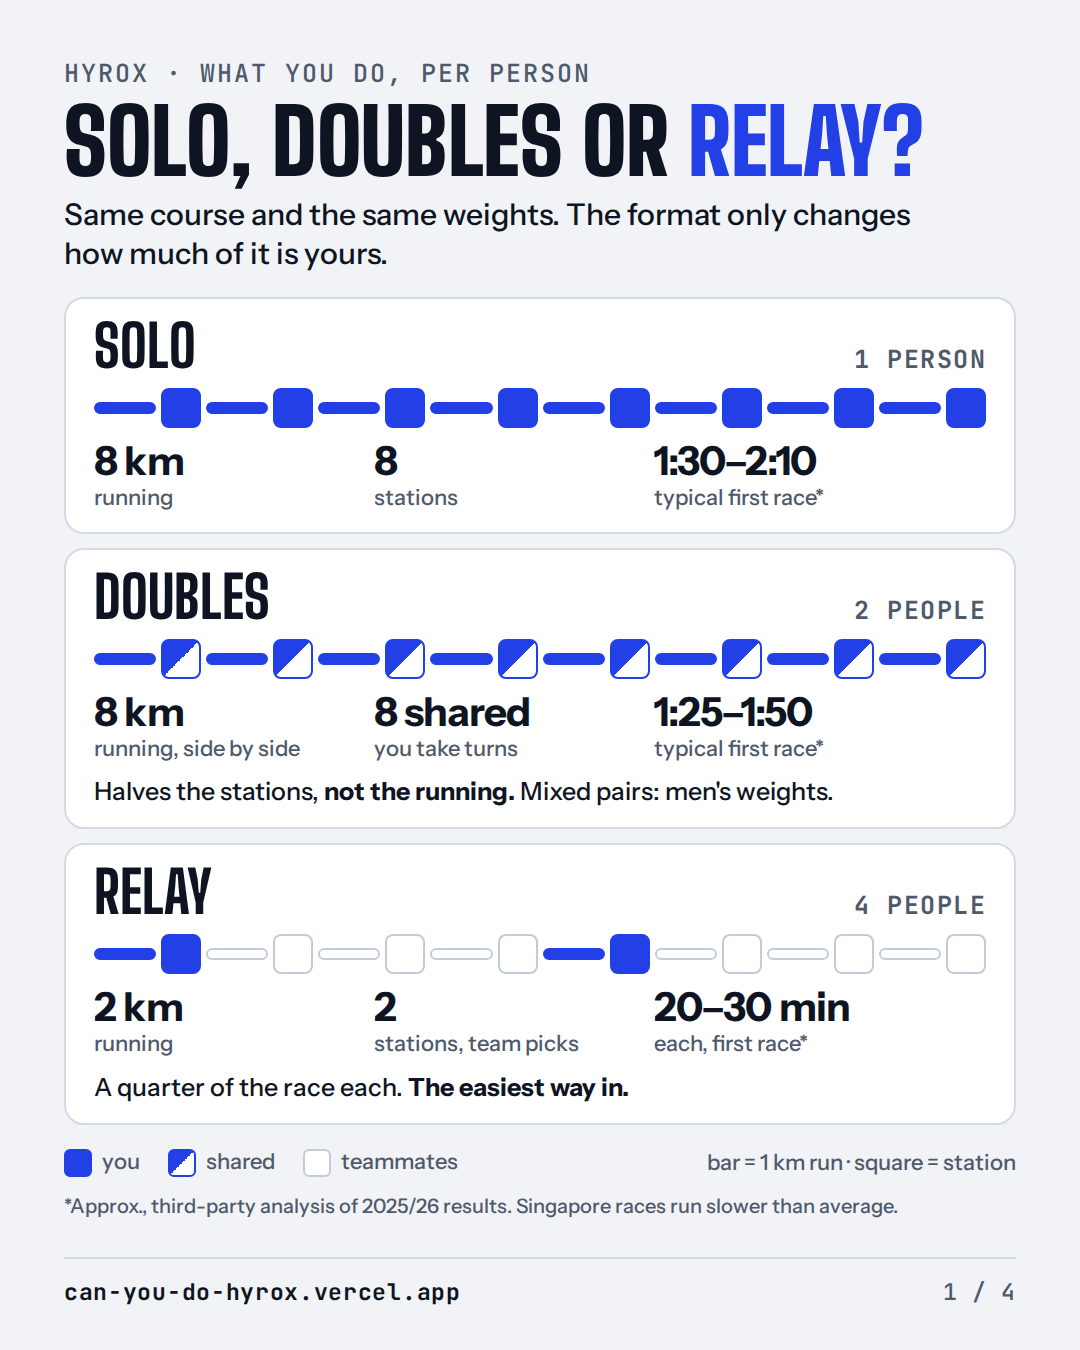
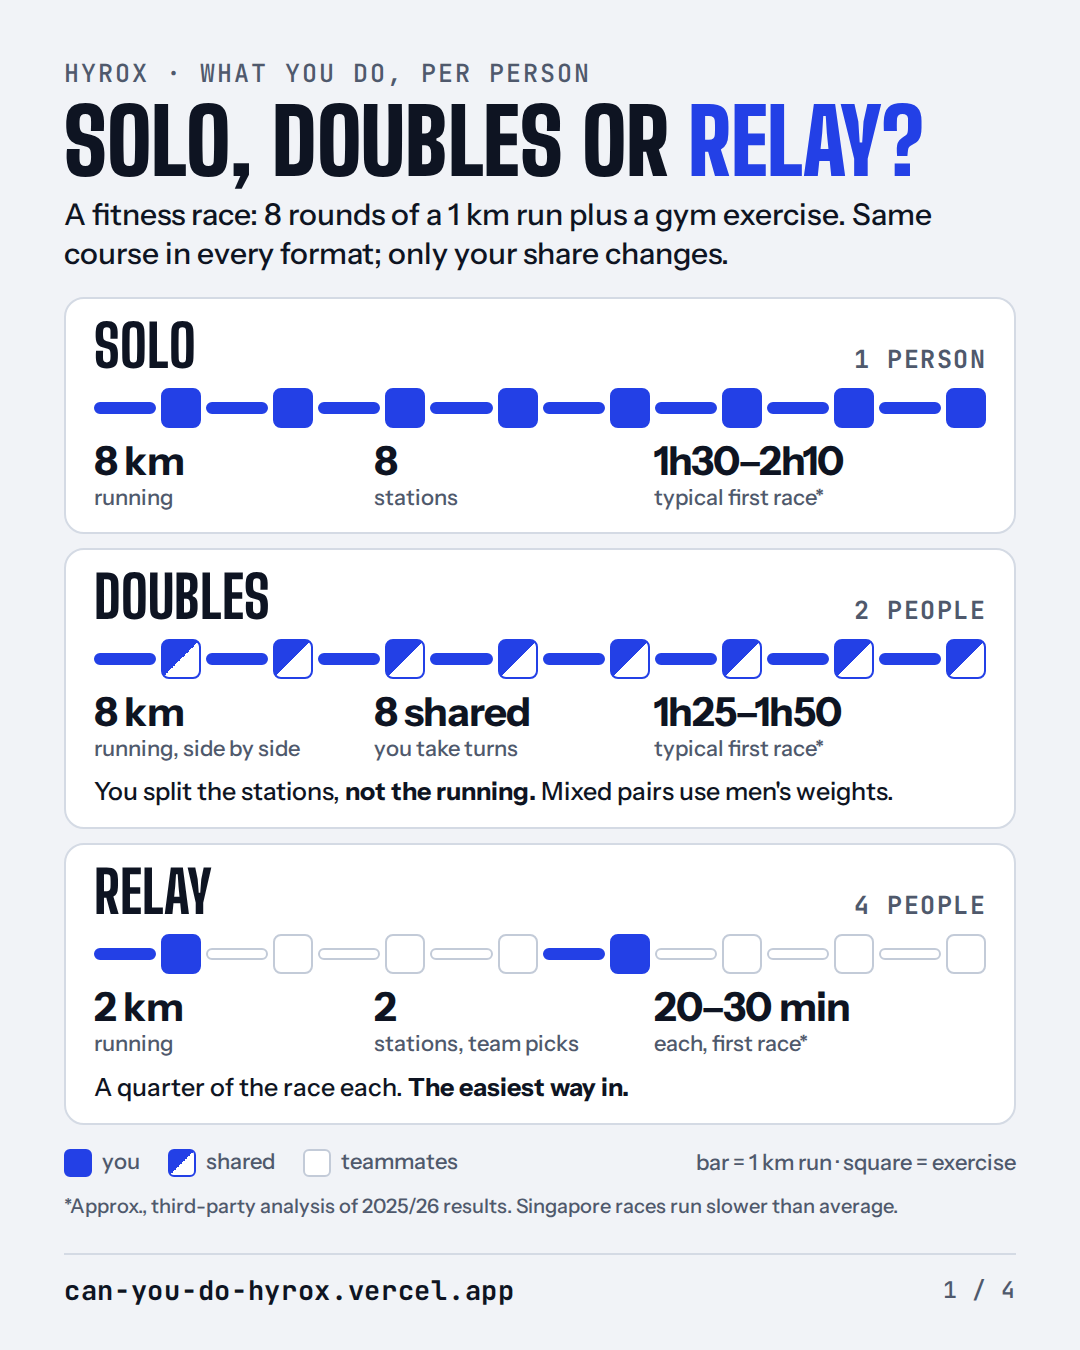
Make share cards clearer for newcomers
Card 1 now says what HYROX is, SkiErg and row are explained, labels are
friendlier (Beginner, Fittest), times read as 1h30 not 1:30, and the
weights wording no longer contradicts the mixed-doubles rule. Share text
explains HYROX in one line.

Claude-Session: https://claude.ai/code/session_018ZDwcHSyeBTy9PunRMkirw

diff --git a/index.html b/index.html
@@ -572,19 +572,19 @@ details.answers summary{cursor:pointer;font-weight:600;width:max-content;max-wid
     <div class="block-head">
       <p class="eyebrow">Solo, pair or team · per person</p>
       <h2 id="formats-title">Pick how you race</h2>
-      <p>Same course and the same weights in every format. What changes is how much of the race is yours.</p>
+      <p>Same course in every format. What changes is how much of the race is yours.</p>
     </div>
     <div class="fmt-rows">
       <article class="fmt">
         <div class="fmt-top"><h3>Solo</h3><span class="who">1 person</span></div>
         <div class="mstrip" aria-hidden="true"><i class="r you"></i><i class="s you"></i><i class="r you"></i><i class="s you"></i><i class="r you"></i><i class="s you"></i><i class="r you"></i><i class="s you"></i><i class="r you"></i><i class="s you"></i><i class="r you"></i><i class="s you"></i><i class="r you"></i><i class="s you"></i><i class="r you"></i><i class="s you"></i></div>
-        <dl class="fmt-stats"><div><dt>Running</dt><dd>8 km</dd></div><div><dt>Stations</dt><dd>All 8</dd></div><div><dt>Typical first race*</dt><dd>1:30–2:10</dd></div></dl>
+        <dl class="fmt-stats"><div><dt>Running</dt><dd>8 km</dd></div><div><dt>Stations</dt><dd>All 8</dd></div><div><dt>Typical first race*</dt><dd>1h30–2h10</dd></div></dl>
         <p>Everything is yours, at the weights above.</p>
       </article>
       <article class="fmt">
         <div class="fmt-top"><h3>Doubles</h3><span class="who">2 people</span></div>
         <div class="mstrip" aria-hidden="true"><i class="r you"></i><i class="s half"></i><i class="r you"></i><i class="s half"></i><i class="r you"></i><i class="s half"></i><i class="r you"></i><i class="s half"></i><i class="r you"></i><i class="s half"></i><i class="r you"></i><i class="s half"></i><i class="r you"></i><i class="s half"></i><i class="r you"></i><i class="s half"></i></div>
-        <dl class="fmt-stats"><div><dt>Running, side by side</dt><dd>8 km</dd></div><div><dt>Stations, taking turns</dt><dd>All 8</dd></div><div><dt>Typical first race*</dt><dd>1:25–1:50</dd></div></dl>
+        <dl class="fmt-stats"><div><dt>Running, side by side</dt><dd>8 km</dd></div><div><dt>Stations, taking turns</dt><dd>All 8</dd></div><div><dt>Typical first race*</dt><dd>1h25–1h50</dd></div></dl>
         <p>Halves the station work, <b>not the running</b>: you run every kilometre side by side, so it's nowhere near half the time. One of you works a station while the other rests. Mixed pairs use the men's weights.</p>
       </article>
       <article class="fmt pick">
@@ -594,7 +594,7 @@ details.answers summary{cursor:pointer;font-weight:600;width:max-content;max-wid
         <p>Each person runs 2 × 1 km and does 2 stations, and the team decides who does which. Only one of you works at a time.</p>
       </article>
     </div>
-    <p class="fmt-legend" aria-hidden="true"><span><i class="you"></i>you</span><span><i class="half"></i>shared</span><span><i></i>teammates</span><span>bar = 1 km run, square = station</span></p>
+    <p class="fmt-legend" aria-hidden="true"><span><i class="you"></i>you</span><span><i class="half"></i>shared</span><span><i></i>teammates</span><span>bar = 1 km run, square = exercise station</span></p>
     <p class="small-note">*Approximate, from third-party analysis of 2025/26 results. Singapore races have run slower than average.</p>
 
     <div class="relay">
@@ -611,16 +611,16 @@ details.answers summary{cursor:pointer;font-weight:600;width:max-content;max-wid
         <li class="pc"><span class="rl-n">8</span><span class="rl-st">Wall balls</span><span class="rl-lt">C</span></li>
       </ol>
       <div class="relay-people">
-        <div class="rp pa"><h4>A · Least fit</h4><ul><li><span>1</span>SkiErg 1,000 m</li><li><span>5</span>Row 1,000 m</li></ul><p>Both machines: you set the pace and can pause (stay seated on the rower), with a long rest in between.</p></div>
+        <div class="rp pa"><h4>A · Beginner</h4><ul><li><span>1</span>SkiErg 1,000 m</li><li><span>5</span>Row 1,000 m</li></ul><p>Two machines, no weights: you set the pace and can pause (stay seated on the rower), with a long rest in between.</p></div>
         <div class="rp pb"><h4>B · Strongest</h4><ul><li><span>2</span>Sled push 50 m</li><li><span>3</span>Sled pull 50 m</li></ul><p>The sleds only move if you're strong enough. Tough back to back, so two strong people can split them.</p></div>
-        <div class="rp pc"><h4>C · Best engine</h4><ul><li><span>4</span>Burpee broad jumps 80 m</li><li><span>8</span>100 wall balls</li></ul><p>Two of the most tiring stations. You do all 100 wall balls while the team cheers, then all four cross the line together.</p></div>
-        <div class="rp pd"><h4>D · All-rounder</h4><ul><li><span>6</span>Farmers carry 200 m</li><li><span>7</span>Sandbag lunges 100 m</li></ul><p>Grip, then legs, back to back.</p></div>
+        <div class="rp pc"><h4>C · Fittest</h4><ul><li><span>4</span>Burpee broad jumps 80 m</li><li><span>8</span>100 wall balls</li></ul><p>Two of the most tiring stations. The other three cheer you through all 100 wall balls, then all four cross the line together.</p></div>
+        <div class="rp pd"><h4>D · All-rounder</h4><ul><li><span>6</span>Farmers carry 200 m</li><li><span>7</span>Sandbag lunges 100 m</li></ul><p>Tests your grip, then your legs.</p></div>
       </div>
       <div class="relay-ready">
         <h4>Ready for relay if you can…</h4>
         <ol>
           <li>Jog 1 km, twice. Walk breaks are fine.</li>
-          <li>SkiErg 1,000 m at your own pace.</li>
+          <li>SkiErg (a standing ski-pull machine) 1,000 m at your own pace.</li>
           <li>Row 1,000 m at your own pace.</li>
         </ol>
         <p>What doesn't get easier: the weights are the same as solo, and every station must be finished in full or the team is disqualified. Teams are 4 women, 4 men, or 2 and 2.</p>

diff --git a/share.html b/share.html
@@ -64,8 +64,8 @@ h1 span{color:var(--accent)}
 
   <ol class="cards">
     <li><img src="/cards/hyrox-1-formats.png" width="1080" height="1350" alt="Solo, Doubles or Relay: per person. Solo is 8 km of running and all 8 stations. Doubles is 8 km of running side by side with the 8 stations shared. Relay is 2 km of running and 2 stations each."><div class="row"><span><b>1</b> · Solo vs Doubles vs Relay</span><button class="btn btn-ghost" type="button" data-share="0" hidden>Share</button></div></li>
-    <li><img src="/cards/hyrox-2-relay-legs.png" width="1080" height="1350" alt="Relay: who does what. Popular tips, not rules; your team decides. A, least fit: SkiErg and row. B, strongest: sled push and sled pull. C, best engine: burpee broad jumps and wall balls. D, all-rounder: farmers carry and sandbag lunges. All four cross the finish together."><div class="row"><span><b>2</b> · Relay: who does what</span><button class="btn btn-ghost" type="button" data-share="1" hidden>Share</button></div></li>
-    <li><img src="/cards/hyrox-3-relay-ready.png" width="1080" height="1350" alt="Ready for relay if you can jog 1 km twice, SkiErg 1,000 m and row 1,000 m: relay legs 1 and 5, about 20 to 30 minutes of work for a beginner. Weights don't get lighter, and every station must be finished in full or the team is disqualified."><div class="row"><span><b>3</b> · Ready for relay?</span><button class="btn btn-ghost" type="button" data-share="2" hidden>Share</button></div></li>
+    <li><img src="/cards/hyrox-2-relay-legs.png" width="1080" height="1350" alt="Relay: who does what. Popular tips, not rules; your team decides. A, beginner: SkiErg and row, no weights. B, strongest: sled push and sled pull. C, fittest: burpee broad jumps and wall balls. D, all-rounder: farmers carry and sandbag lunges. All four cross the finish together."><div class="row"><span><b>2</b> · Relay: who does what</span><button class="btn btn-ghost" type="button" data-share="1" hidden>Share</button></div></li>
+    <li><img src="/cards/hyrox-3-relay-ready.png" width="1080" height="1350" alt="Ready for relay if you can jog 1 km twice, SkiErg 1,000 m and row 1,000 m: no weights, about 20 to 30 minutes of work. Weights don't get lighter, and every station must be finished in full or the team is disqualified."><div class="row"><span><b>3</b> · Ready for relay?</span><button class="btn btn-ghost" type="button" data-share="2" hidden>Share</button></div></li>
     <li><img src="/cards/hyrox-4-numbers.png" width="1080" height="1350" alt="The numbers: the eight stations with women's and men's Open weights, and AIA HYROX Singapore on 26 to 29 November at Singapore EXPO."><div class="row"><span><b>4</b> · The numbers</span><button class="btn btn-ghost" type="button" data-share="3" hidden>Share</button></div></li>
   </ol>
 </main>
@@ -73,7 +73,7 @@ h1 span{color:var(--accent)}
 (() => {
   "use strict";
   const FILES = ["hyrox-1-formats.png", "hyrox-2-relay-legs.png", "hyrox-3-relay-ready.png", "hyrox-4-numbers.png"];
-  const TEXT = "Can you do HYROX? Take the 2-minute test: https://can-you-do-hyrox.vercel.app";
+  const TEXT = "HYROX is a fitness race: 8 rounds of a 1 km run plus a gym exercise. Do it alone, as a pair, or as a team of 4 where you each do a quarter. Can you do it? 2-minute test: https://can-you-do-hyrox.vercel.app";
   const status = document.getElementById("status");
   const cache = {};
 
